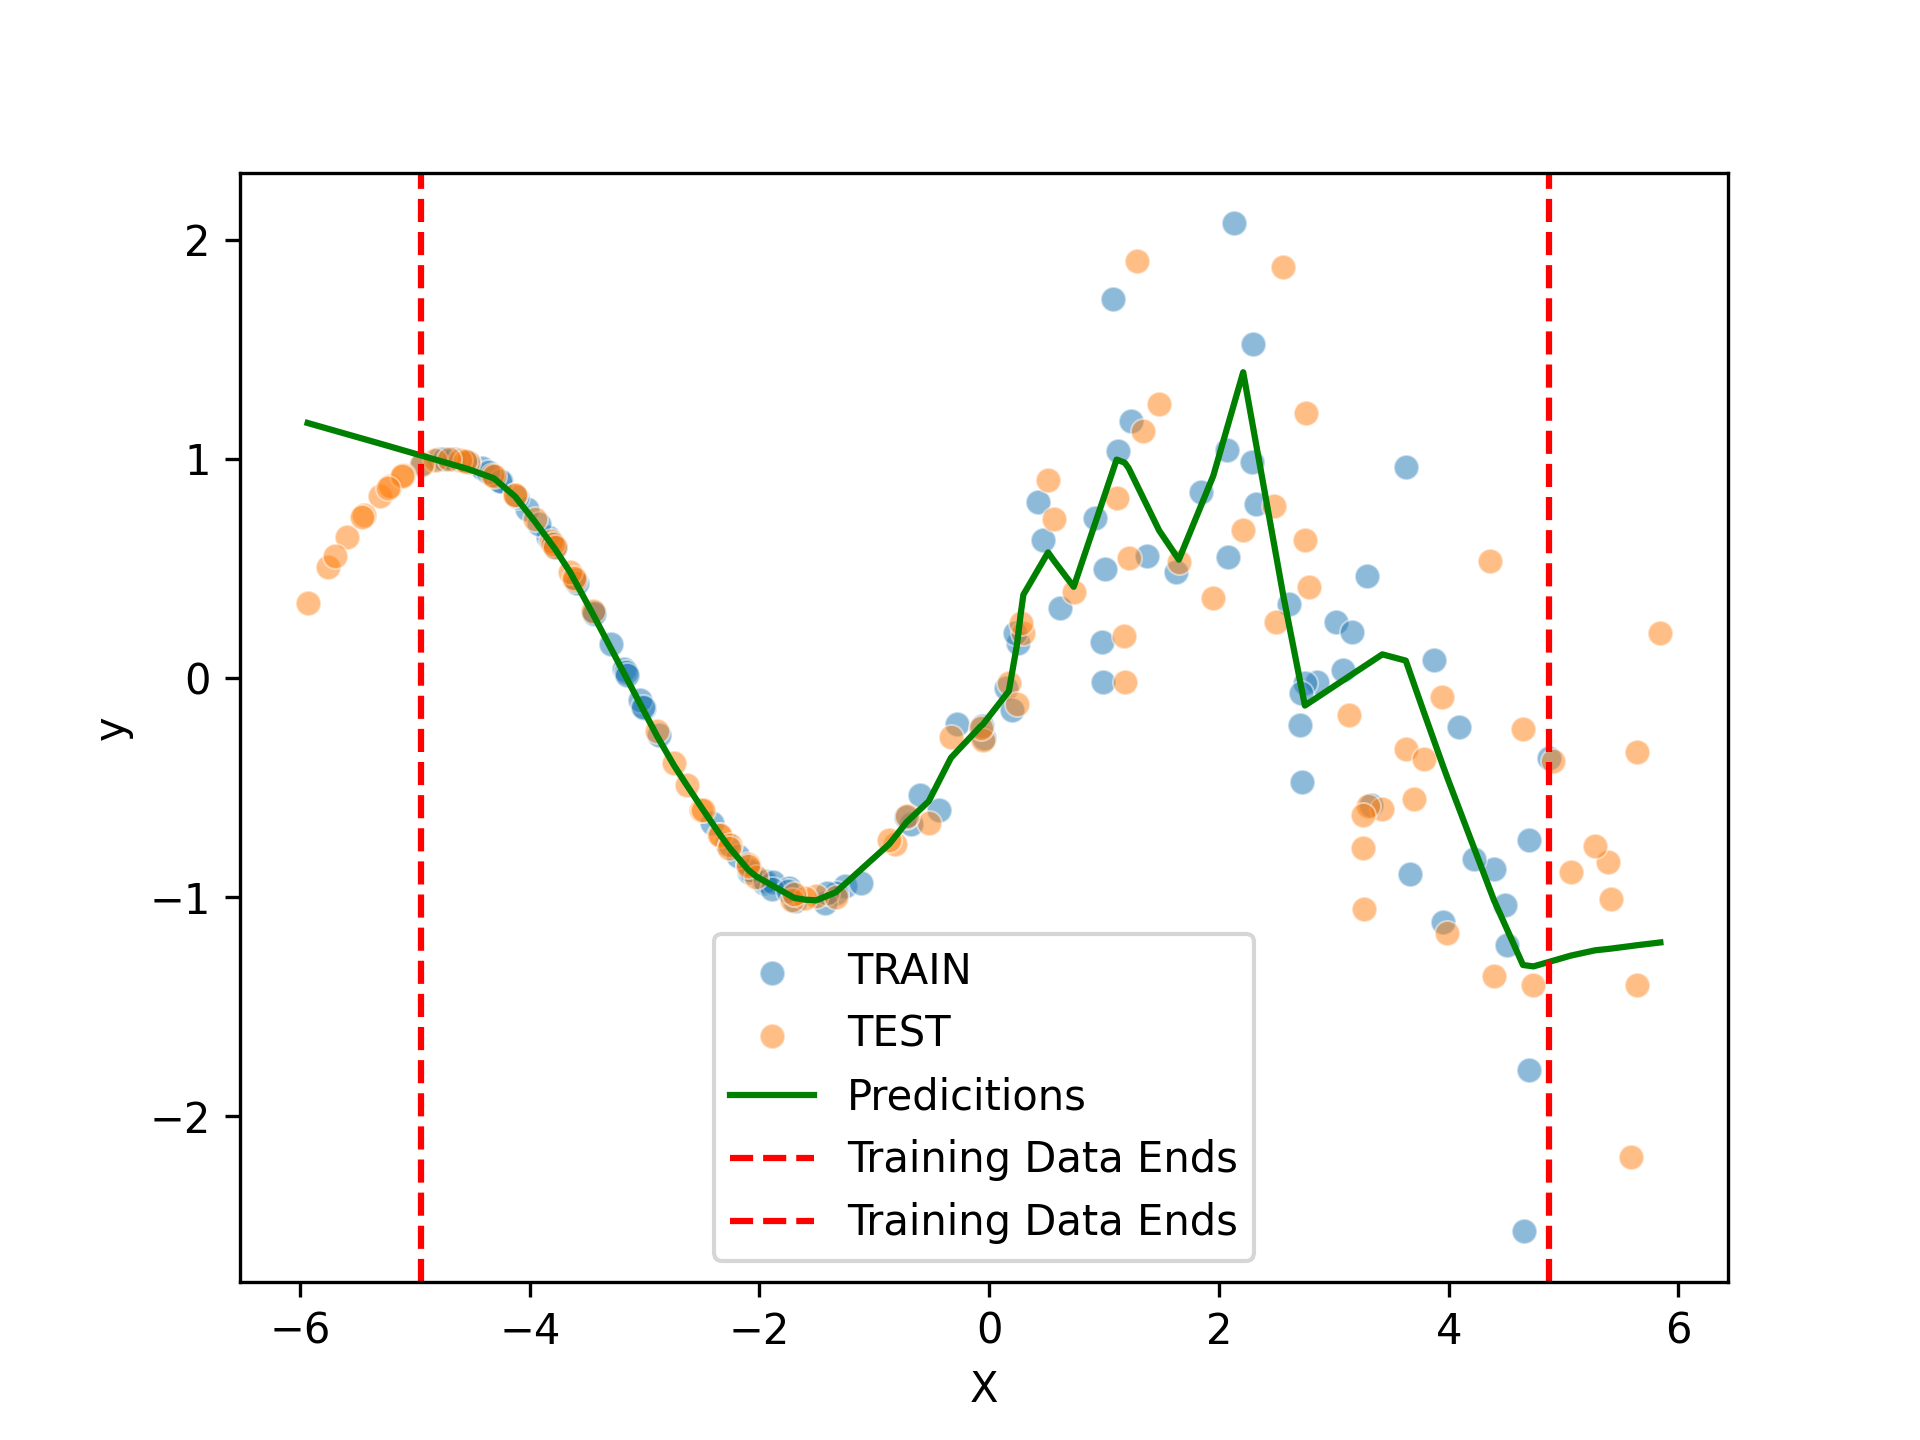
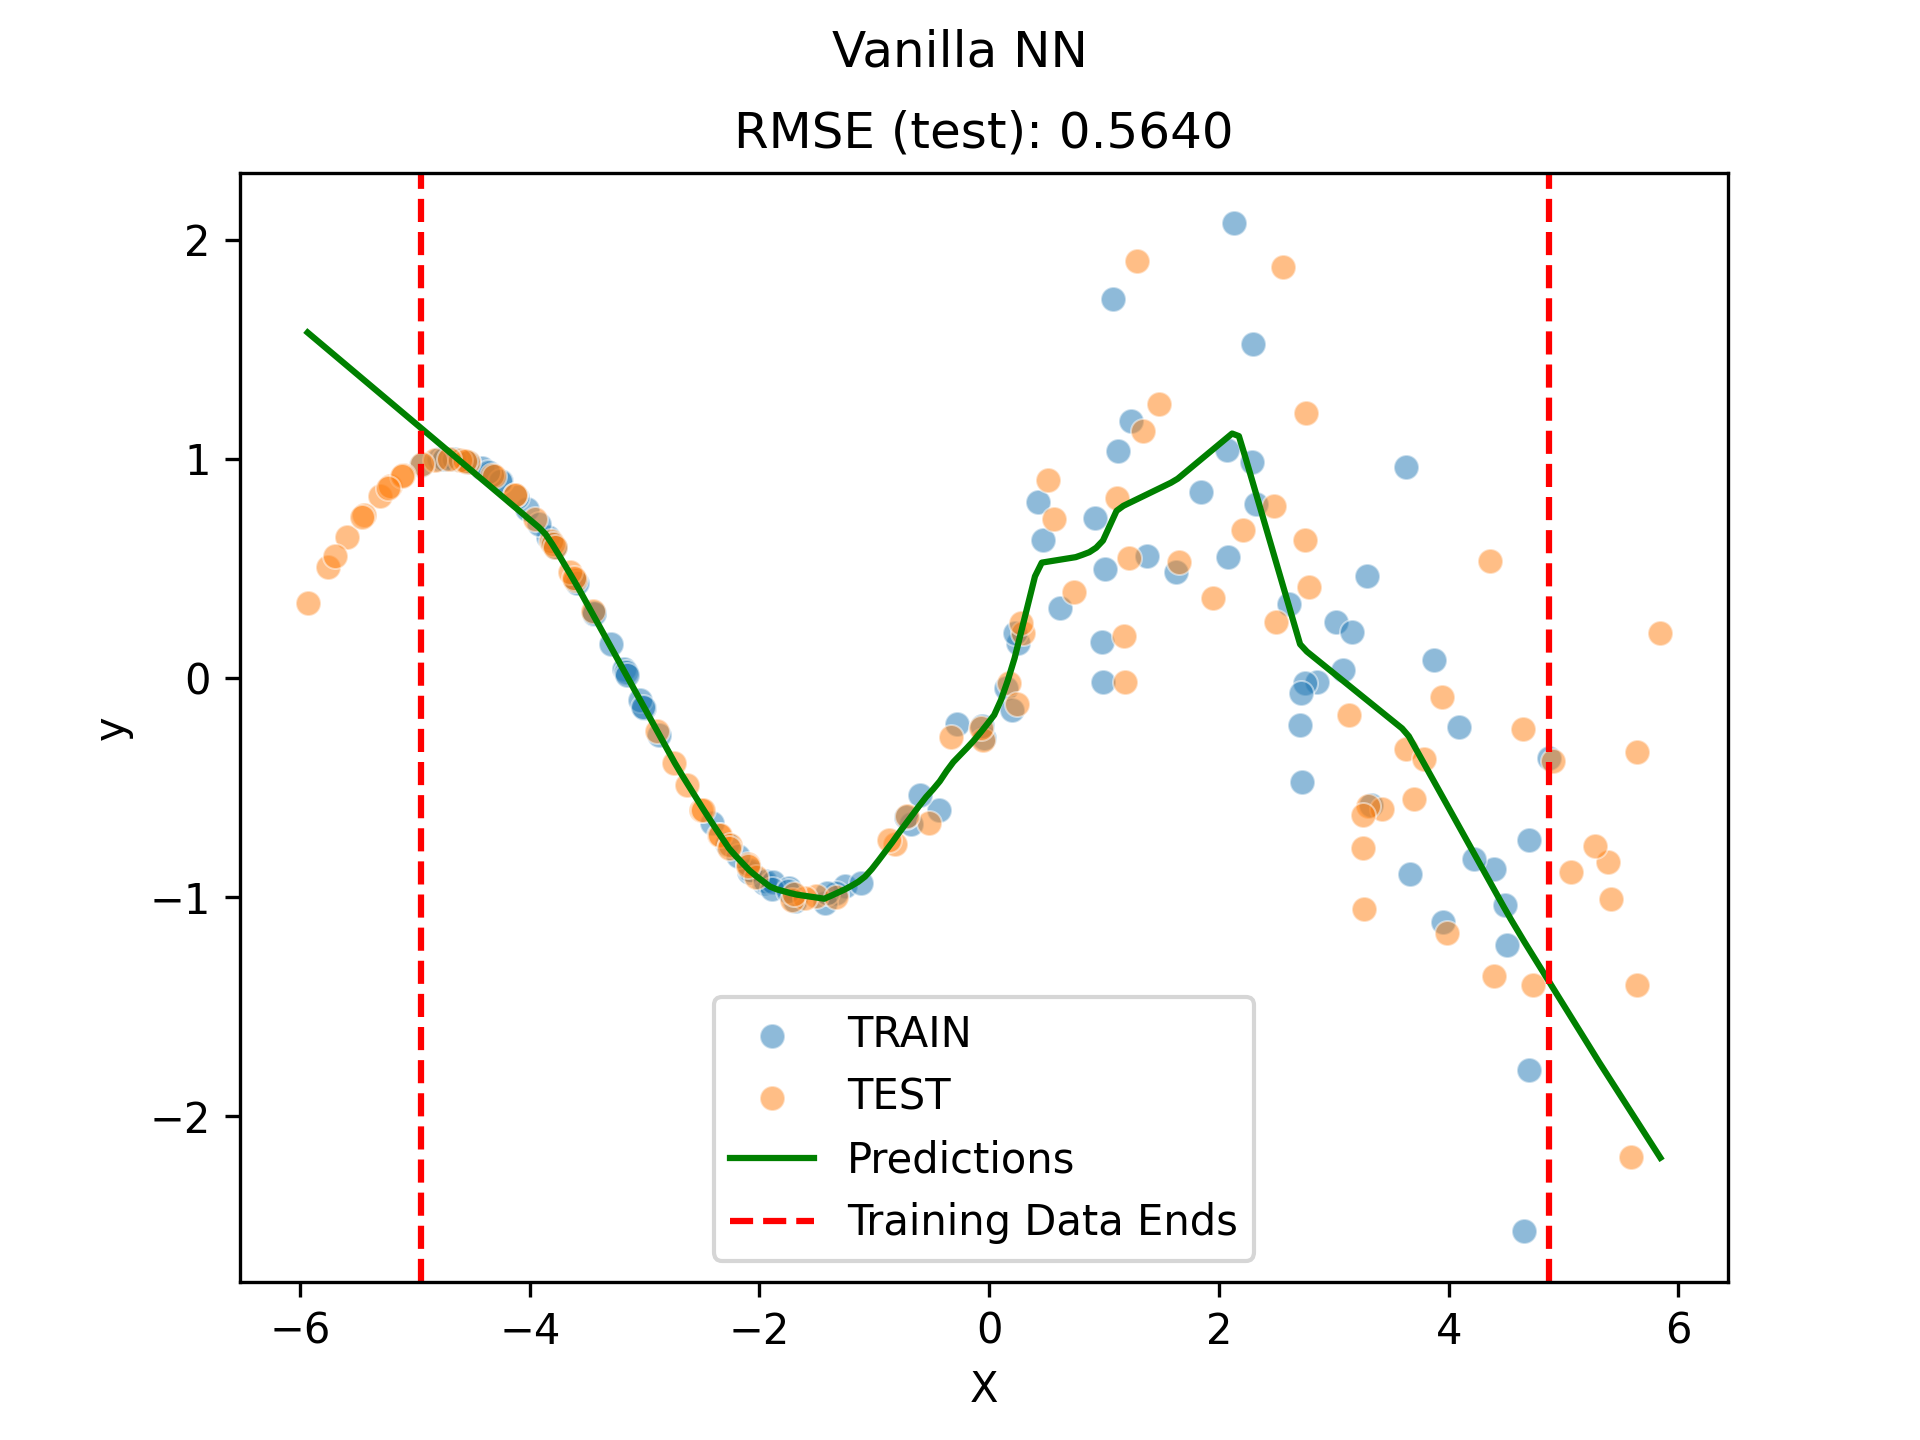
Finished variational inference, updated vanilla nn.

diff --git a/lab_3/models/variational_inference.py b/lab_3/models/variational_inference.py
@@ -1,0 +1,129 @@
+import torch
+from torch import nn
+from torch.func import functional_call
+import pandas as pd
+import seaborn as sns
+import matplotlib.pyplot as plt
+import posteriors
+import torchopt
+from tqdm import trange
+
+# Build model
+device = torch.accelerator.current_accelerator().type if torch.accelerator.is_available() else "cpu"
+print(f"Using {device} device")
+
+class VanillaNN(nn.Module):
+    def __init__(self):
+        super().__init__()
+        self.model = nn.Sequential(
+            nn.Linear(1, 64),
+            nn.ReLU(),
+            nn.Linear(64, 64),
+            nn.ReLU(),
+            nn.Linear(64, 1),
+        )
+
+    def forward(self, x):
+        logits = self.model(x)
+        return logits
+
+model = VanillaNN().to(device)
+
+def log_posterior(params, batch, prior_sd=5.0, noise_var=0.25):
+    x, y, n_data = batch
+    y_hat = functional_call(model, params, (x,))
+
+    log_lik = -0.5 * ((y - y_hat) ** 2) / noise_var
+    log_lik = log_lik.sum() * (n_data / x.shape[0])
+
+    log_prior = sum(
+        (-0.5 * (p ** 2) / prior_sd ** 2).sum() for p in params.values()
+    )
+
+    return log_lik + log_prior, {}
+
+transform = posteriors.vi.diag.build(
+    log_posterior=log_posterior,
+    optimizer=torchopt.adam(lr=1e-2),
+    temperature=0.1,
+    n_samples=4,
+    stl=True,
+    init_log_sds=-2.0,
+)
+
+state = transform.init(params=dict(model.named_parameters()))
+
+# Training
+train = pd.read_csv("data/train-1.csv")
+X_train = torch.tensor(train['X'], dtype=torch.float32).unsqueeze(1).to(device)
+y_train = torch.tensor(train['y'], dtype=torch.float32).unsqueeze(1).to(device)
+n_data = X_train.shape[0]
+
+for epoch in trange(10000):
+    state, _ = transform.update(
+        state,
+        batch=(X_train, y_train, n_data),
+    )
+
+# Testing
+test = pd.read_csv("data/test-1.csv")
+X_test = torch.tensor(test['X'], dtype=torch.float32).unsqueeze(1).to(device)
+y_test = torch.tensor(test['y'], dtype=torch.float32).unsqueeze(1).to(device)
+
+n_samples = 100
+
+# RMSE on test set
+with torch.no_grad():
+    test_preds = []
+    for _ in range(n_samples):
+        sampled_params = posteriors.vi.diag.sample(state, (1,))
+        params_single = {k: v.squeeze(0) for k, v in sampled_params.items()}
+        y_hat = functional_call(model, params_single, (X_test,))
+        test_preds.append(y_hat)
+
+    test_preds = torch.stack(test_preds)
+    test_mu = test_preds.mean(dim=0)
+    rmse = torch.sqrt(torch.mean((test_mu - y_test) ** 2)).item()
+
+# Predictions over linspace
+X_lin = torch.linspace(test['X'].min(), test['X'].max(), 200).unsqueeze(1).to(device)
+
+with torch.no_grad():
+    preds = []
+    for _ in range(n_samples):
+        sampled_params = posteriors.vi.diag.sample(state, (1,))
+        params_single = {k: v.squeeze(0) for k, v in sampled_params.items()}
+        y_hat = functional_call(model, params_single, (X_lin,))
+        preds.append(y_hat)
+
+    preds = torch.stack(preds)
+    mu = preds.mean(dim=0)
+    var = preds.var(dim=0) + 0.25
+
+upper = (mu + 1.96 * torch.sqrt(var)).cpu().squeeze().numpy()
+lower = (mu - 1.96 * torch.sqrt(var)).cpu().squeeze().numpy()
+
+pred = pd.DataFrame({
+    'X': X_lin.cpu().squeeze().numpy(),
+    'y': mu.cpu().squeeze().numpy()
+})
+
+# Plotting
+lb, ub = train['X'].min(), train['X'].max()
+
+sns.scatterplot(train, x='X', y='y', label='TRAIN', alpha=.5)
+sns.scatterplot(test, x='X', y='y', label='TEST', alpha=.5)
+sns.lineplot(pred, x='X', y='y', label='Predictions', color='green')
+plt.fill_between(
+    pred['X'].values, lower, upper,
+    alpha=0.3, color='green', label='95% CI'
+)
+
+plt.axvline(x=lb, color='red', linestyle='--')
+plt.axvline(x=ub, color='red', linestyle='--', label='Training Data Ends')
+
+plt.suptitle("Variational Inference")
+plt.title(f"RMSE (test): {rmse:.4f}")
+plt.legend()
+
+plt.savefig("results/variational_inference.png", dpi=300)

diff --git a/lab_3/models/vanilla_nn.py b/lab_3/models/vanilla_nn.py
@@ -3,6 +3,7 @@ from torch import nn
 import pandas as pd
 import seaborn as sns
 import matplotlib.pyplot as plt
+from tqdm import trange
 
 # Build model
 device = torch.accelerator.current_accelerator().type if torch.accelerator.is_available() else "cpu"
@@ -13,8 +14,6 @@ class VanillaNN(nn.Module):
         super().__init__()
         self.model = nn.Sequential(
             nn.Linear(1, 64),
-            nn.ReLU(),
-            nn.Linear(64, 64),
             nn.ReLU(),
             nn.Linear(64, 64),
             nn.ReLU(),
@@ -38,7 +37,7 @@ y_train = train['y']
 X_train = torch.tensor(X_train, dtype=torch.float32).unsqueeze(1).to(device)
 y_train = torch.tensor(y_train, dtype=torch.float32).unsqueeze(1).to(device)
 
-for epoch in range(1000):
+for epoch in trange(1000):
     y_hat = model(X_train)
 
     loss = criterion(y_hat, y_train)
@@ -49,28 +48,36 @@ for epoch in range(1000):
 
 # Testing
 test = pd.read_csv("data/test-1.csv")
-X_test = test['X']
-y_test = test['y']
-
-X_test = torch.tensor(X_test, dtype=torch.float32).unsqueeze(1).to(device)
+X_test = torch.tensor(test['X'], dtype=torch.float32).unsqueeze(1).to(device)
+y_test = torch.tensor(test['y'], dtype=torch.float32).unsqueeze(1).to(device)
 
 with torch.no_grad():
-    y_pred = model(X_test)
+    y_test_pred = model(X_test)
+    rmse = torch.sqrt(torch.mean((y_test_pred - y_test) ** 2)).item()
+
+# Predictions over linspace
+lb, ub = test['X'].min(), test['X'].max()
+X_lin = torch.linspace(lb, ub, 200).unsqueeze(1).to(device)
+
+with torch.no_grad():
+    y_lin = model(X_lin)
 
 pred = pd.DataFrame({
-    'X': X_test.cpu().squeeze().numpy(),
-    'y': y_pred.cpu().squeeze().numpy()
+    'X': X_lin.cpu().squeeze().numpy(),
+    'y': y_lin.cpu().squeeze().numpy()
 })
 
-lb, ub = train['X'].min(), train['X'].max()
+train_lb, train_ub = train['X'].min(), train['X'].max()
 
 sns.scatterplot(train, x='X', y='y', label='TRAIN', alpha=.5)
 sns.scatterplot(test, x='X', y='y', label='TEST', alpha=.5)
-sns.lineplot(pred, x='X', y='y', label='Predicitions', color='green')
+sns.lineplot(pred, x='X', y='y', label='Predictions', color='green')
 
-plt.axvline(x=lb, color='red', linestyle='--', label='Training Data Ends')
-plt.axvline(x=ub, color='red', linestyle='--', label='Training Data Ends')
+plt.axvline(x=train_lb, color='red', linestyle='--')
+plt.axvline(x=train_ub, color='red', linestyle='--', label='Training Data Ends')
 
+plt.suptitle("Vanilla NN")
+plt.title(f"RMSE (test): {rmse:.4f}")
 plt.legend()
 
 plt.savefig("results/vanilla_nn.png", dpi=300)
